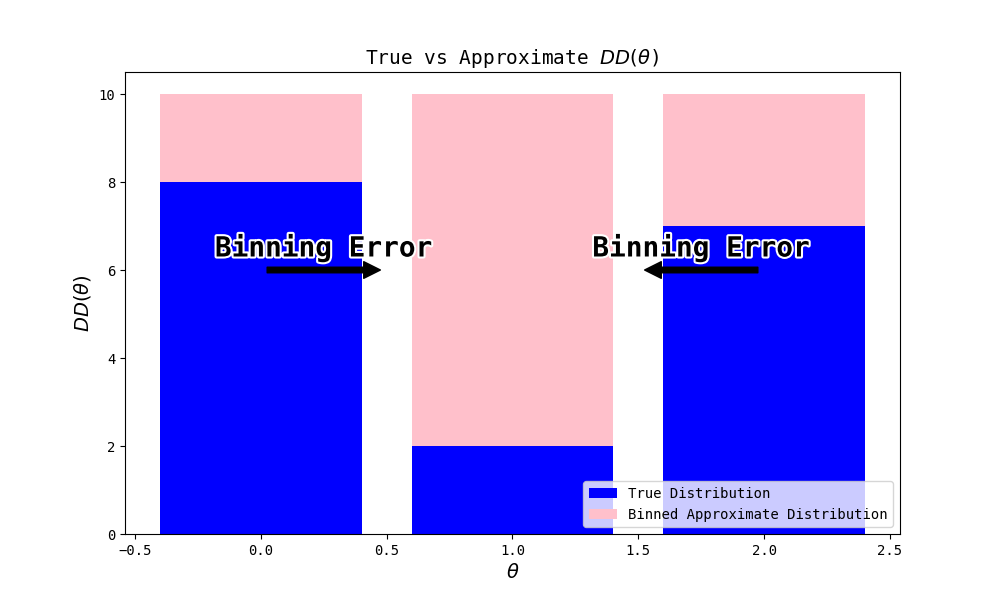
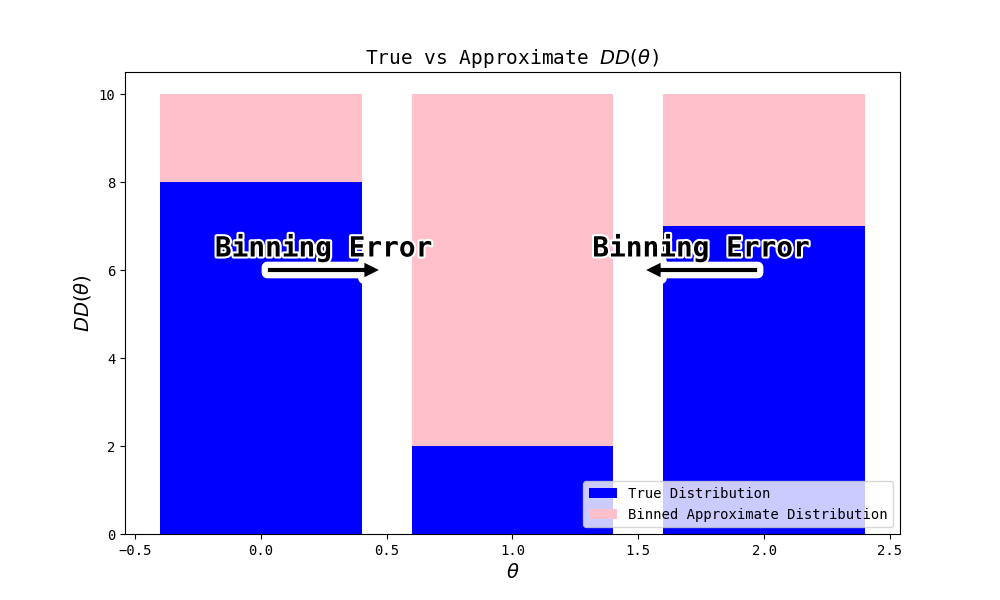
updating toy plots

Changed region(s): [[0.651, 0.42, 0.775, 0.48], [0.248, 0.42, 0.372, 0.48]]

diff --git a/assets/toy.py b/assets/toy.py
@@ -28,11 +28,6 @@ plt.title(r'True vs Approximate $DD(\theta$)', fontsize=14)
 # Adding a legend
 plt.legend(loc='lower right')
 
-# Adding arrows
-plt.annotate('', xy=(0.5, 6), xytext=(0, 6),
-             arrowprops=dict(facecolor='black', shrink=0.05))
-plt.annotate('', xy=(1.5, 6), xytext=(2, 6),
-             arrowprops=dict(facecolor='black', shrink=0.05))
 
 def add_outlined_text(x, y, text, fontsize=20):
     t = plt.text(x, y, text, fontsize=fontsize, fontweight='bold', color='black',
@@ -40,6 +35,20 @@ def add_outlined_text(x, y, text, fontsize=20):
     t.set_path_effects([path_effects.Stroke(linewidth=3, foreground='white'),
                         path_effects.Normal()])
     return t
+
+def add_outlined_arrow(xy, xytext):
+    arrow = plt.annotate(
+        '', xy=xy, xytext=xytext,
+        arrowprops=dict(facecolor='black', edgecolor='white', linewidth=1, shrink=0.05)
+    )
+    arrow.arrow_patch.set_path_effects([
+        path_effects.Stroke(linewidth=8, foreground='white'),
+        path_effects.Normal()
+    ])
+    return arrow
+
+add_outlined_arrow(xy=(0.5, 6), xytext=(0, 6))
+add_outlined_arrow(xy=(1.5, 6), xytext=(2, 6))
 
 add_outlined_text(0.25, 6.5, "Binning Error")
 add_outlined_text(1.75, 6.5, "Binning Error")
